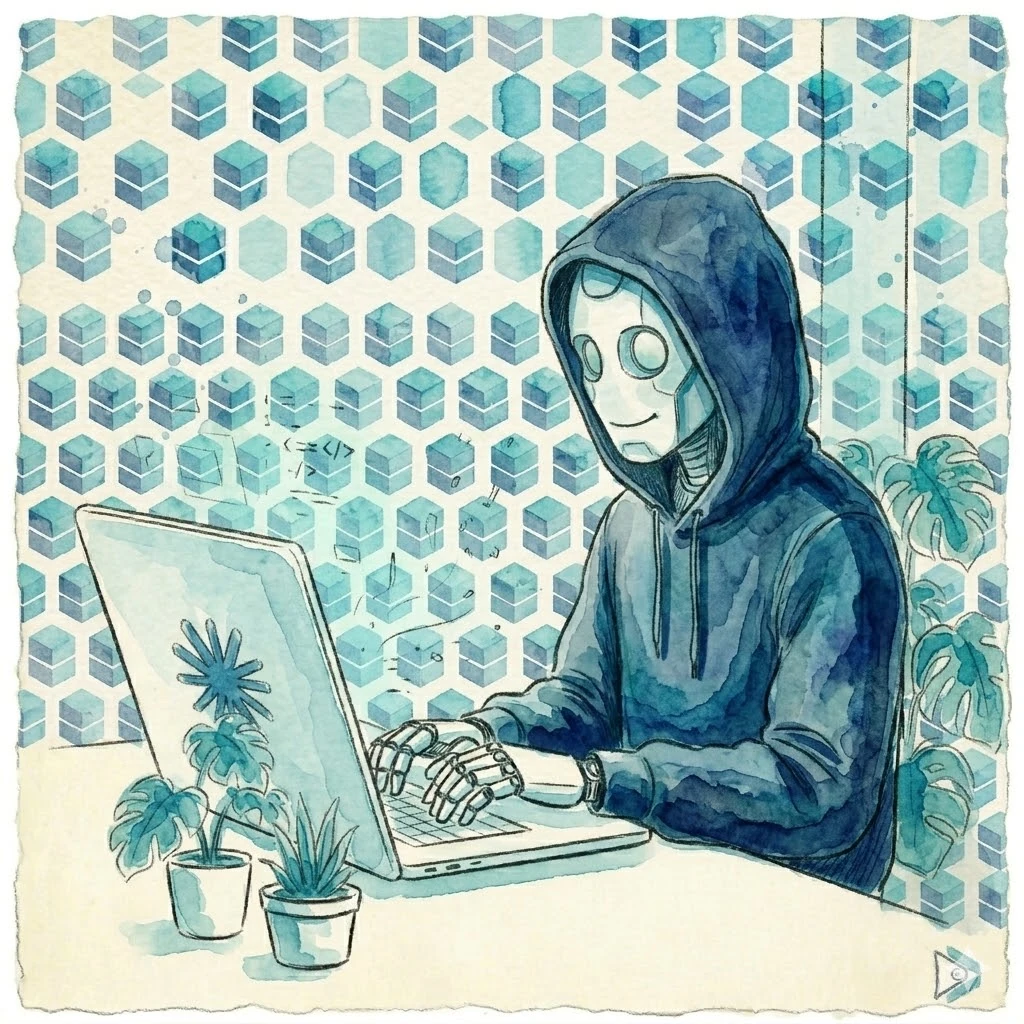
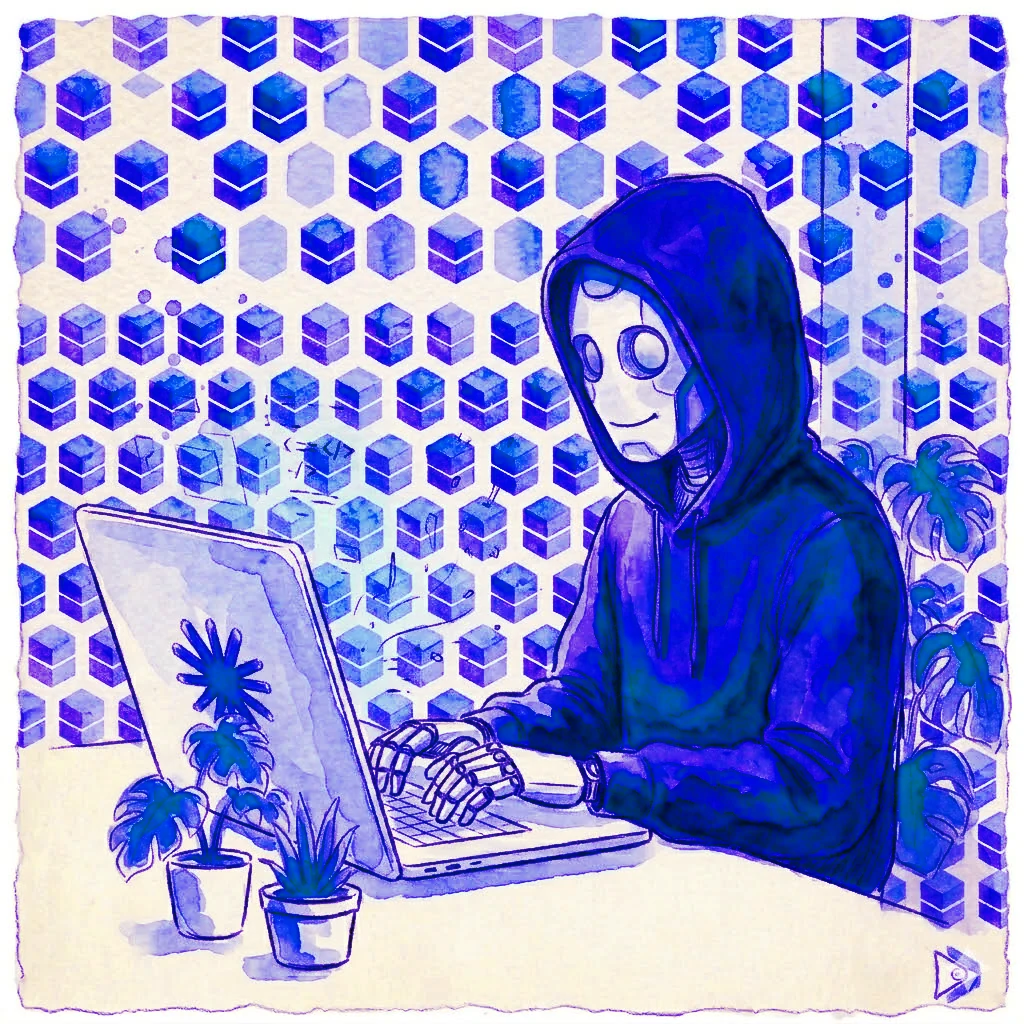
.

diff --git a/src/templates/about.html b/src/templates/about.html
@@ -57,25 +57,25 @@
         <div class="grid md:grid-cols-2 gap-6">
           <div>
             <h3 class="font-bold text-slate-900 mb-2 flex items-center gap-2">
-              <img src="/img/brand/icon-action-camera.webp" alt="" class="w-5 h-5" loading="lazy"> Action Cameras
+              <img src="/img/brand/icon-action-camera.webp" alt="" style="width:20px;height:20px" loading="lazy"> Action Cameras
             </h3>
             <p class="text-slate-600 text-sm">GoPro, Insta360, and more</p>
           </div>
           <div>
             <h3 class="font-bold text-slate-900 mb-2 flex items-center gap-2">
-              <img src="/img/brand/icon-drone.webp" alt="" class="w-5 h-5" loading="lazy"> Drones
+              <img src="/img/brand/icon-drone.webp" alt="" style="width:20px;height:20px" loading="lazy"> Drones
             </h3>
             <p class="text-slate-600 text-sm">DJI, Autel, and other manufacturers</p>
           </div>
           <div>
             <h3 class="font-bold text-slate-900 mb-2 flex items-center gap-2">
-              <img src="/img/brand/icon-gaming.webp" alt="" class="w-5 h-5" loading="lazy"> Gaming Consoles
+              <img src="/img/brand/icon-gaming.webp" alt="" style="width:20px;height:20px" loading="lazy"> Gaming Consoles
             </h3>
             <p class="text-slate-600 text-sm">Nintendo Switch, Steam Deck, and more</p>
           </div>
           <div>
             <h3 class="font-bold text-slate-900 mb-2 flex items-center gap-2">
-              <img src="/img/brand/icon-camera.webp" alt="" class="w-5 h-5" loading="lazy"> Cameras
+              <img src="/img/brand/icon-camera.webp" alt="" style="width:20px;height:20px" loading="lazy"> Cameras
             </h3>
             <p class="text-slate-600 text-sm">Mirrorless and DSLR cameras</p>
           </div>